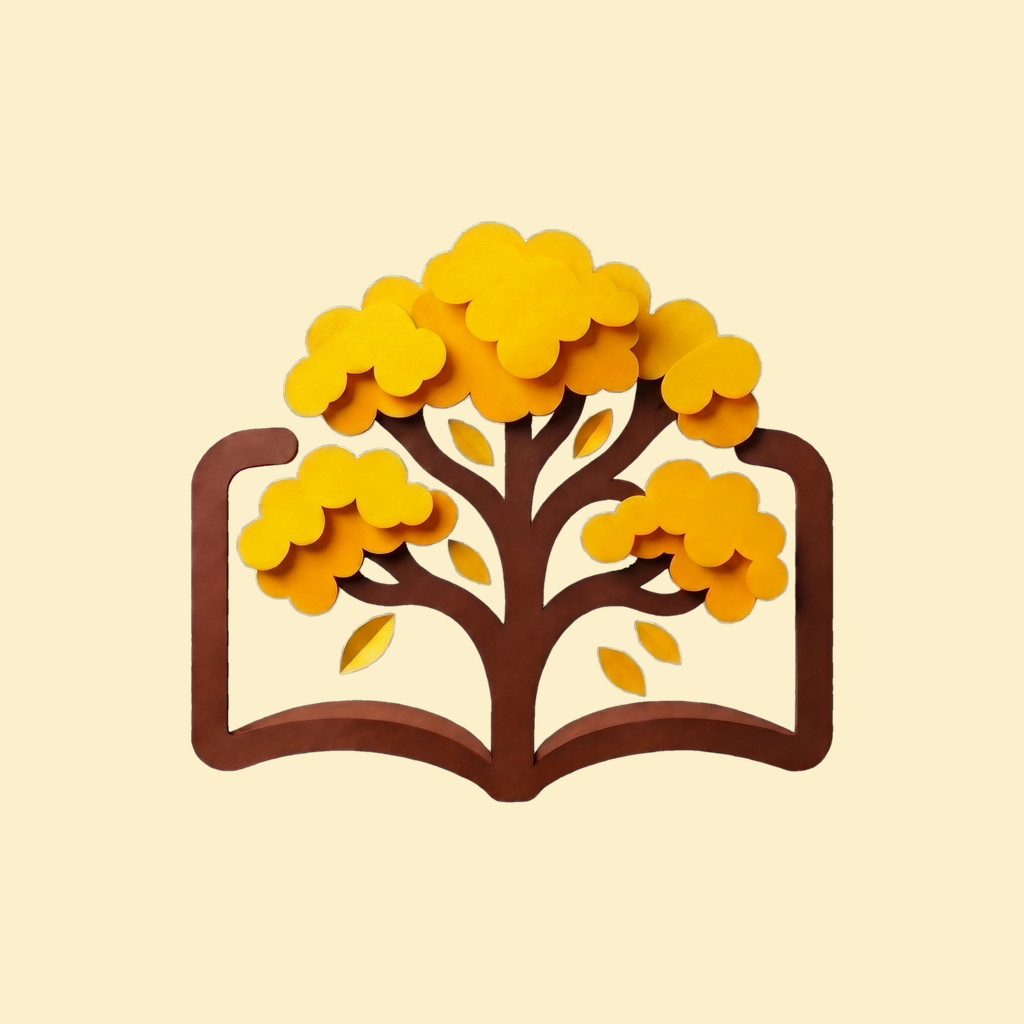
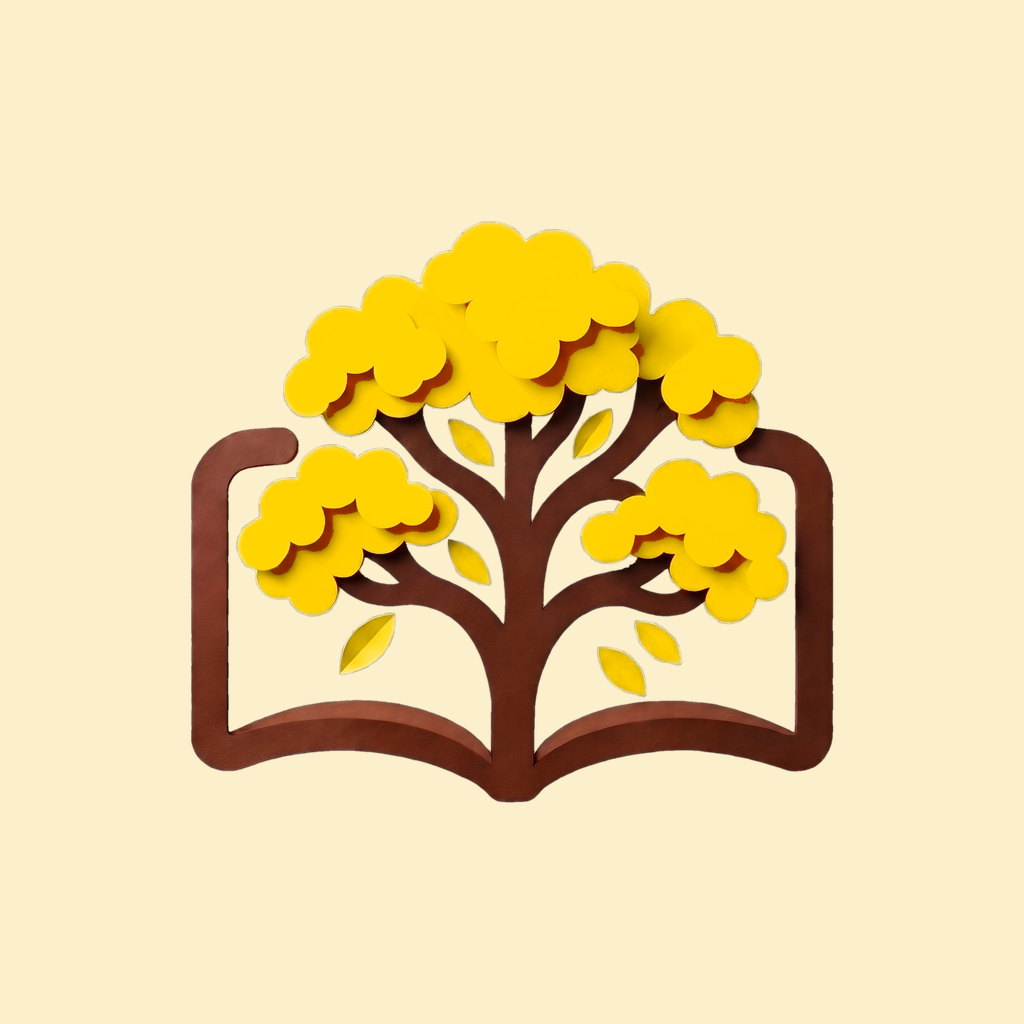
style(design): realçar a cor amarela viva da florada do Ipê e tokens solares

diff --git a/src/view/tokens.ts b/src/view/tokens.ts
@@ -44,12 +44,12 @@ export const colors = {
 
   // Ipê da marca (Spec 078, Spec 116): florada amarela viva, cartão de leitor e fita marcadora
   ipe: {
-    container: "#FEF3C7",    // Amarelo florada luminoso, solar e aconchegante
+    container: "#FEF08A",    // Amarelo florada solar vivo e luminoso
     onContainer: "#451A03",  // Marrom tronco profundo de alto contraste (AAA > 12:1)
-    bloom: "#F59E0B",        // Amarelo ouro solar radiante de ipê em plena florada
-    bloomDeep: "#D97706",    // Âmbar dourado vivo (tubo e sépalas da flor)
-    petalSoft: "#FFFBEB",    // Pétala solar fresca de ipê
-    ribbon: "#F59E0B",       // Fita marcadora dourada
+    bloom: "#FACC15",        // Amarelo ouro solar radiante de ipê em plena florada
+    bloomDeep: "#EAB308",    // Dourado vivo (tubo e sépalas da flor)
+    petalSoft: "#FEF9C3",    // Pétala solar fresca de ipê
+    ribbon: "#FACC15",       // Fita marcadora dourada
     trunk: "#58331F",        // Tronco nobre
   },
 
@@ -179,11 +179,11 @@ export const darkColors: ColorPalette = {
   // Ipê da marca (Spec 078, Spec 116): florada no tema escuro com alto contraste e aconchego.
   ipe: {
     container: "#38290E",
-    onContainer: "#FFE099",
-    bloom: "#F59E0B",
-    bloomDeep: "#D97706",
+    onContainer: "#FEF08A",
+    bloom: "#FACC15",
+    bloomDeep: "#EAB308",
     petalSoft: "#281E0B",
-    ribbon: "#F59E0B",
+    ribbon: "#FACC15",
     trunk: "#e2b48c",
   },
 

diff --git a/scripts/ajustar-amarelo-ipe.py b/scripts/ajustar-amarelo-ipe.py
@@ -1,0 +1,99 @@
+#!/usr/bin/env python3
+"""
+Ajusta as cores do Ipê Amarelo para um amarelo ouro solar vibrante e vivo (49°-52°),
+eliminando o tom ocre/alaranjado/apagado e mantendo o tronco e o livro marrom nobre intactos.
+"""
+
+from PIL import Image
+import colorsys
+import os
+
+def realcar_amarelo(img: Image.Image, alvo_hue_min=47.0, alvo_hue_max=52.0) -> Image.Image:
+    img = img.convert("RGBA")
+    w, h = img.size
+    pix = img.load()
+    out = Image.new("RGBA", (w, h), (0, 0, 0, 0))
+    out_pix = out.load()
+
+    for y in range(h):
+        for x in range(w):
+            r, g, b, a = pix[x, y]
+            if a < 5:
+                out_pix[x, y] = (r, g, b, a)
+                continue
+
+            h_val, s_val, v_val = colorsys.rgb_to_hsv(r / 255.0, g / 255.0, b / 255.0)
+            deg = h_val * 360.0
+
+            # Pétalas e copa amarelas/âmbar (evitando o marrom escuro do tronco onde v_val < 0.35 ou deg < 24)
+            if 25.0 <= deg <= 68.0 and v_val >= 0.42 and s_val >= 0.28:
+                # Transforma matiz para amarelo solar vivo (47° - 52°)
+                new_deg = alvo_hue_min + (deg - 25.0) * ((alvo_hue_max - alvo_hue_min) / 38.0)
+                new_h = min(new_deg / 360.0, 54.0 / 360.0)
+                # Saturação vívida e brilho solar radiante
+                new_s = min(1.0, s_val * 1.05)
+                new_v = min(1.0, v_val * 1.08)
+                nr, ng, nb = colorsys.hsv_to_rgb(new_h, new_s, new_v)
+                out_pix[x, y] = (int(nr * 255), int(ng * 255), int(nb * 255), a)
+            elif 23.0 <= deg <= 42.0 and v_val >= 0.35 and s_val >= 0.38:
+                # Pétalas em sombra sutil da copa
+                new_deg = 40.0 + (deg - 23.0) * (8.0 / 19.0)
+                new_h = new_deg / 360.0
+                new_s = min(1.0, s_val * 1.04)
+                new_v = min(1.0, v_val * 1.10)
+                nr, ng, nb = colorsys.hsv_to_rgb(new_h, new_s, new_v)
+                out_pix[x, y] = (int(nr * 255), int(ng * 255), int(nb * 255), a)
+            else:
+                out_pix[x, y] = (r, g, b, a)
+
+    return out
+
+def processar():
+    raiz = os.path.dirname(os.path.dirname(os.path.abspath(__file__)))
+    medalhao_path = os.path.join(raiz, "src/view/assets/ipe-medalhao.png")
+    
+    print("▶ Realçando amarelo do ipe-medalhao.png...")
+    img = Image.open(medalhao_path)
+    novo_medalhao = realcar_amarelo(img)
+    novo_medalhao.save(medalhao_path, "PNG", optimize=True)
+
+    # Atualiza logo-clean e splash-icon
+    logo_clean = os.path.join(raiz, "assets/logo-clean.png")
+    splash_icon = os.path.join(raiz, "assets/splash-icon.png")
+    if os.path.exists(logo_clean):
+        novo_medalhao.save(logo_clean, "PNG", optimize=True)
+    if os.path.exists(splash_icon):
+        novo_medalhao.save(splash_icon, "PNG", optimize=True)
+
+    # Atualiza icon.png
+    icon_path = os.path.join(raiz, "assets/icon.png")
+    if os.path.exists(icon_path):
+        bg_rgb = (252, 239, 203)
+        icon = Image.new("RGB", (1024, 1024), bg_rgb)
+        scale_icon = novo_medalhao.resize((768, 768), Image.Resampling.LANCZOS)
+        offset = (1024 - 768) // 2
+        icon.paste(scale_icon, (offset, offset), scale_icon)
+        icon.save(icon_path, "PNG", optimize=True)
+
+    # Atualiza android-icon-foreground.png
+    android_fg_path = os.path.join(raiz, "assets/android-icon-foreground.png")
+    if os.path.exists(android_fg_path):
+        android_fg = Image.new("RGBA", (512, 512), (0, 0, 0, 0))
+        scale_fg = novo_medalhao.resize((320, 320), Image.Resampling.LANCZOS)
+        fg_offset = (512 - 320) // 2
+        android_fg.paste(scale_fg, (fg_offset, fg_offset), scale_fg)
+        android_fg.save(android_fg_path, "PNG", optimize=True)
+
+    # Pétalas individuais e flor
+    for petala in ["ipe-flor-blossom.png", "ipe-petala-1.png", "ipe-petala-2.png", "ipe-petala-natural.png"]:
+        p_path = os.path.join(raiz, "src/view/assets", petala)
+        if os.path.exists(p_path):
+            print(f"▶ Realçando amarelo de {petala}...")
+            p_img = Image.open(p_path)
+            novo_p = realcar_amarelo(p_img, alvo_hue_min=48.0, alvo_hue_max=53.0)
+            novo_p.save(p_path, "PNG", optimize=True)
+
+    print("✔ Todas as artes do Ipê foram atualizadas para o amarelo solar vivo!")
+
+if __name__ == "__main__":
+    processar()
